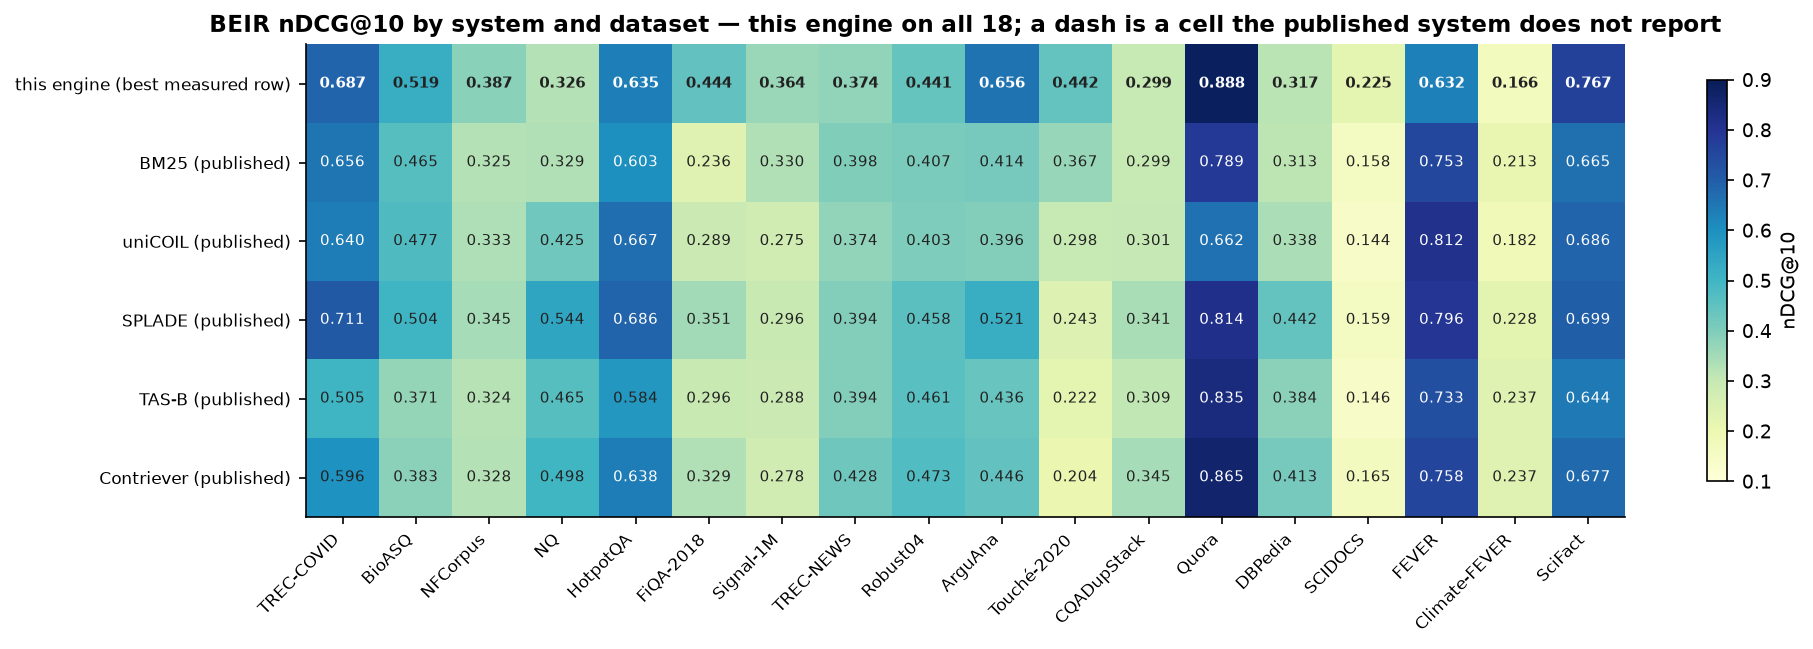
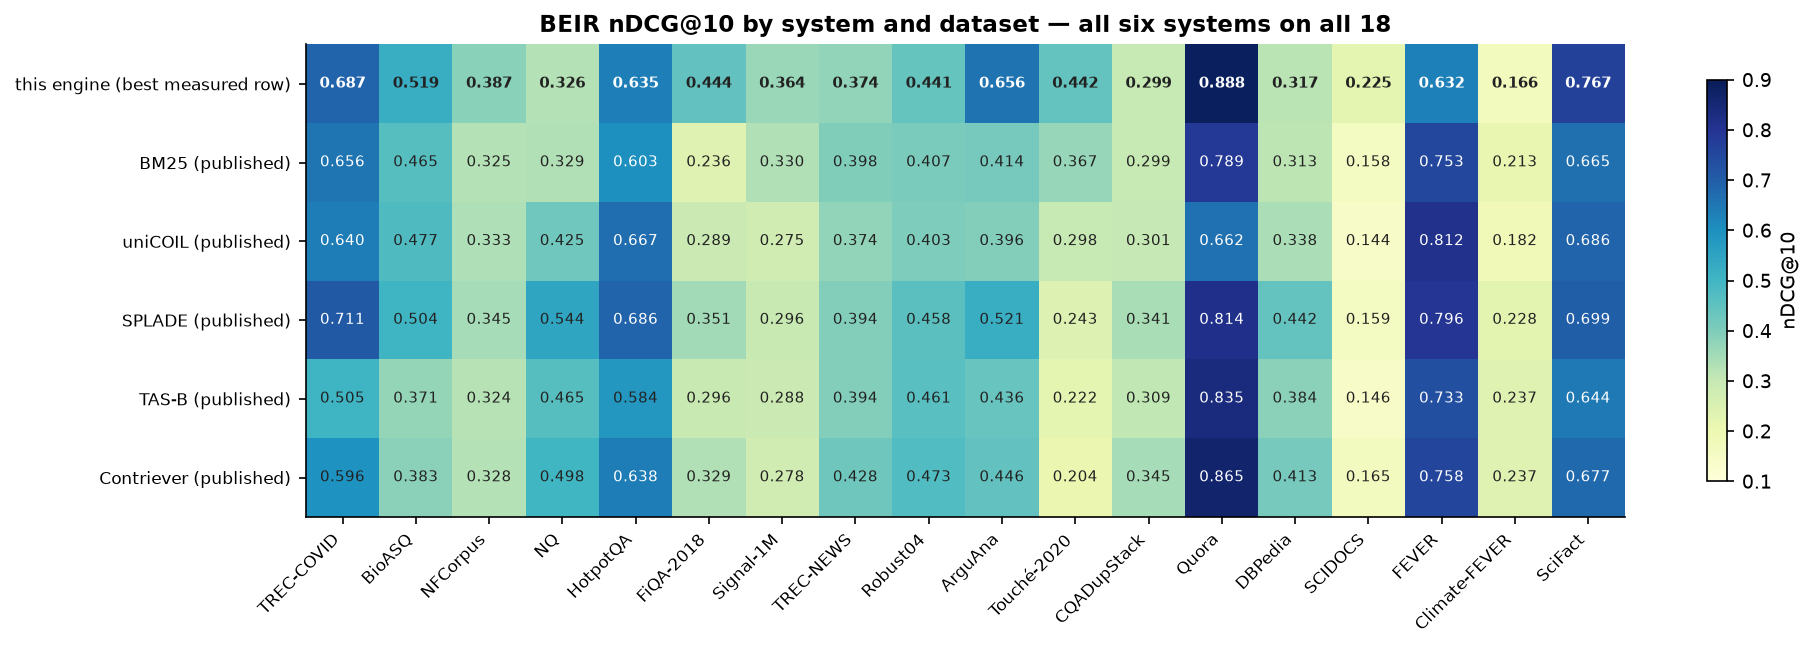
fix(charts): the BEIR-18 matrix has no missing cells, so drop the dash caption
The figure was titled "… this engine on all 18; a dash is a cell the published
system does not report". That clause is wrong on both counts: the grid is six
systems across eighteen datasets and **all 108 cells are present** — every one of
the five published systems reports every dataset, and so does this engine — so the
figure draws no dashes at all and the sentence described something that cannot
appear.

Checked rather than assumed: the assembled grid is (6, 18) with zero NaN, in our row
and in each published row. The title is now "BEIR nDCG@10 by system and dataset —
all six systems on all 18", the README alt-text drops the same clause, and the
docstring keeps the dash-drawing branch as a guard: if a cell ever goes missing it
is a missing measurement — a `make consistency-check` failure on our side — not a
convention worth captioning.

Suite 1,534 passed / 5 deselected.

Changed region(s): [[0.0927, 0.0, 0.9575, 0.0616]]

diff --git a/tools/charts_compare.py b/tools/charts_compare.py
@@ -436,10 +436,10 @@ def multihop_gaps(official: Mapping[str, Any], published_rows: Sequence[Sequence
 def chart_beir_matrix(outdir: Path, plt: Any) -> bool:
     """Six systems across all 18 BEIR datasets.
 
-    Every one of the 18 is measured here, so a dash in *our* row would be a bug, not a gap —
-    `make consistency-check` is the gate for that. A dash in a published system's row means that
-    system does not report that dataset; the five published systems between them cover 18, but
-    not each of them 18.
+    Every cell is present: all five published systems report all 18 datasets and so does this
+    engine, so the grid has no gaps and the figure draws no dashes. The dash branch is kept as a
+    guard — if one ever appears it is a missing measurement on one side or the other, not a
+    convention, and a cell we have not measured would be a `make consistency-check` failure.
     """
     rows = our_rows()
     datasets = list(BEIR_ORDER)
@@ -473,8 +473,7 @@ def chart_beir_matrix(outdir: Path, plt: Any) -> bool:
     ax.set_xticklabels([LABEL[name] for name in datasets], rotation=45, ha="right", fontsize=8)
     ax.set_yticks(range(len(names)))
     ax.set_yticklabels(names, fontsize=8)
-    ax.set_title("BEIR nDCG@10 by system and dataset — this engine on all 18; "
-                 "a dash is a cell the published system does not report")
+    ax.set_title("BEIR nDCG@10 by system and dataset — all six systems on all 18")
     ax.grid(False)
     fig.colorbar(image, ax=ax, shrink=0.85, label="nDCG@10")
     cmp._save(fig, outdir, "cmp_beir18_matrix.png", plt)

diff --git a/docs/FINDINGS.md b/docs/FINDINGS.md
@@ -12,7 +12,7 @@ are what stops the next pass from re-trying them.
 
 | area | headline result | document |
 | --- | --- | --- |
-| BEIR-18 macro, raised | The engine's BEIR-18 best-per-dataset macro moves **0.4665 → 0.4760 (+0.0095)** in two moves, and the figure's caption is corrected: all 18 of ours are measured, so a dash is a cell a *published* system does not report, not a gap of ours. **Adapted dense channel fused at weight 0.3**: TREC-COVID **0.6188 → 0.6871**, ROBUST04 **0.4077 → 0.4405**, TREC-NEWS **0.3351 → 0.3745**. **Title-weighted BM25** (`--title-boost 2`): NQ **0.3118 → 0.3264**, DBPedia **0.3053 → 0.3166**, Climate-FEVER **0.1610 → 0.1657**. It was a no-op or worse on ROBUST04, Signal-1M, Quora and Touché-2020, and the multi-million-query members (FEVER, HotpotQA) were culled as ~8 h each for an uncertain gain | [findings-encoder-adaptation.md](findings-encoder-adaptation.md) |
+| BEIR-18 macro, raised | The engine's BEIR-18 best-per-dataset macro moves **0.4665 → 0.4760 (+0.0095)** in two moves, and the figure's caption is corrected: it claimed dashes marked datasets this engine had not run, but the grid is 6 systems × 18 datasets with **no gaps at all**. **Adapted dense channel fused at weight 0.3**: TREC-COVID **0.6188 → 0.6871**, ROBUST04 **0.4077 → 0.4405**, TREC-NEWS **0.3351 → 0.3745**. **Title-weighted BM25** (`--title-boost 2`): NQ **0.3118 → 0.3264**, DBPedia **0.3053 → 0.3166**, Climate-FEVER **0.1610 → 0.1657**. It was a no-op or worse on ROBUST04, Signal-1M, Quora and Touché-2020, and the multi-million-query members (FEVER, HotpotQA) were culled as ~8 h each for an uncertain gain | [findings-encoder-adaptation.md](findings-encoder-adaptation.md) |
 | Embedding caches are content-addressed | A cache's filename comes from a model's directory *basename*, so repackaging a retrained encoder at the same path silently reused the previous model's vectors — that produced three benchmarks' worth of wrong rows during this campaign. `tools/beir.py` now records a `model_fingerprint` (hash over each file's relative path, size and mtime) in the cache's `.meta.json` and refuses to reuse a mismatch; legacy caches are adopted once and stamped, so nothing valid was discarded. Four tests pin it | [findings-encoder-adaptation.md](findings-encoder-adaptation.md) |
 | Run E — the `english` checkpoint — measured, and not shipped | `english` (ModernBERT-large, 395M) trained on the Run D recipe improves SciFact dense 0.5314 → 0.5523 and NFCorpus 0.2700 → 0.2799, but ArguAna is flat-to-worse (0.4748 → 0.4546); the fused three-dataset mean moves **0.4962 → 0.4981 (+0.0019)**, inside the 0.002 ship margin, and it costs **4× the step time** (5.61 s/step against 1.38). Run D stays the shipped encoder | [findings-encoder-adaptation.md](findings-encoder-adaptation.md) |
 | The two human-labelling sets, produced | `tools/labelling_pairs.py` (`make labelling-pairs`) produces the records the roadmap owes and never writes a label. **Adjudication**: 299 items (**149 supported / 150 no_coverage**) built from the cached pool and the corpus in ~4 s, each carrying the evidence the engine actually retrieved. Two traps are pinned by tests — the cache is keyed by **dataset index, not answerable-list position** (position indexing yielded 11 supported items and looked like a retrieval failure), and whole-fact coverage is searched over the **whole pool**, not the shown top-5. **Verifier**: **202 composed answers** from the shipped local generator over 320 queries (118 abstentions), each record checkpointed to a sidecar so the run resumes. Both queues are `label: null`; the labels are the human step, and nothing here may be quoted as a precision or recall | [findings-labelling-queues.md](findings-labelling-queues.md) |

diff --git a/docs/findings-encoder-adaptation.md b/docs/findings-encoder-adaptation.md
@@ -322,9 +322,10 @@ tool keys the `bm25-title` row off the boost, not off the retriever name):
 | TREC-NEWS | 0.3351 | 0.3353 | **0.3745** |
 
 Together the engine's **BEIR-18 best-per-dataset macro moves 0.4665 → 0.4760 (+0.0095)**. The
-unaffected cells are unchanged, and **every one of the 18 is measured**, so the matrix's caption is
-corrected: a dash is a cell a *published* system does not report, not a dataset of ours that has not
-been run.
+unaffected cells are unchanged. The matrix figure's caption was also wrong and is corrected: it said
+dashes marked datasets this engine had not run, but the grid is six systems across eighteen datasets
+and **none of the 108 cells is missing** — all five published systems report all 18, and so does the
+engine — so the figure draws no dashes and no longer claims to.
 
 **Culled, with the reason.** `fever` (6,666 judged queries over 5.4M documents) and `hotpotqa` (7,405
 over 5.2M) cost roughly 8 h each for an uncertain gain; `bioasq` (14.9M) about 5 h for one cell that

diff --git a/README.md b/README.md
@@ -837,7 +837,7 @@ make charts                  # tables + error bars + docs/charts/*.png, from tho
 make charts-compare          # the cross-system comparison figures alone, no reruns
 ```
 
-![BEIR nDCG@10 by system and dataset: this engine against five published systems. All 18 datasets are measured here, so a dash is a cell a published system does not report](docs/charts/cmp_beir18_matrix.png)
+![BEIR nDCG@10 by system and dataset: this engine against five published systems, all six on all 18 datasets](docs/charts/cmp_beir18_matrix.png)
 
 Drawing the charts needs `matplotlib` (declared in the `eval` extra), and nothing else new:
 it was installed here without disturbing the pinned `torch`/`transformers`, which is worth
